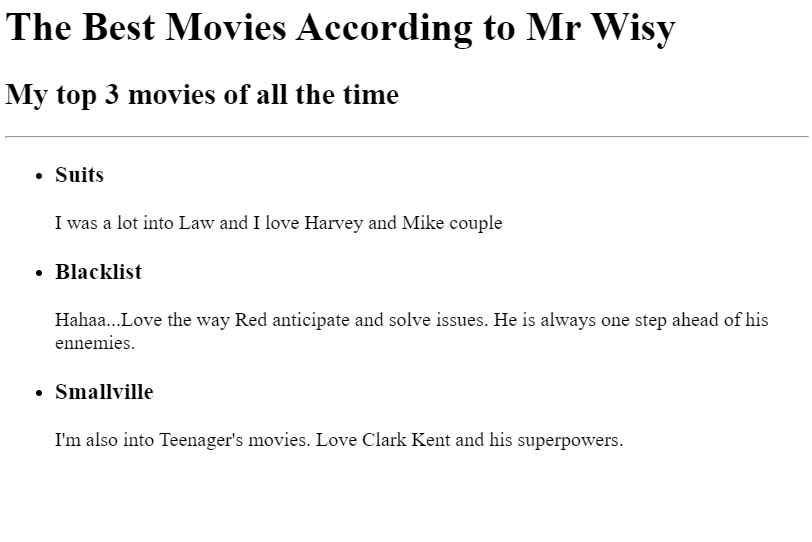
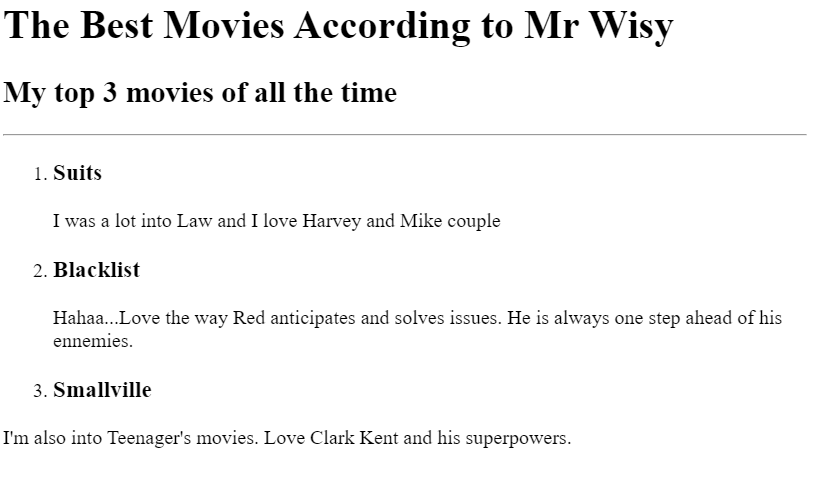
Add files via upload

diff --git a/public/movie-ranking.html b/public/movie-ranking.html
@@ -1,12 +1,11 @@
 <h1>The Best Movies According to Mr Wisy </h1>
 <h2>My top 3 movies of all the time</h2>
 <hr /> 
-<ul>
+<ol>
 <li><h3>Suits</h3></li>
 <p>I was a lot into Law and I love Harvey and Mike couple</p>
 <li><h3>Blacklist</h3></li>
 <p>Hahaa...Love the way Red anticipates and solves issues. He  is always one step ahead of his ennemies.</p>
 <li><h3>Smallville</h3></li>
-<p>I'm also into Teenager's movies. Love Clark Kent and his superpowers.
-</p>
-</ul>
+<p>I'm also into Teenager's movies. Love Clark Kent and his superpowers.</p>
+</ol>

diff --git a/index.html b/index.html
@@ -16,7 +16,7 @@
 <p><a href="./public/movie-ranking.html">Movie Ranking Project</a>
 </p>
 <p>   
-<img src="./assets/images/Movie.html.png" height="200">
+<img src="./assets/images/Ranking.html.png" height="200">
 </p> 
 <a href="./public/birthday-invite.html">Birthday Invitation</a>
 <p>
